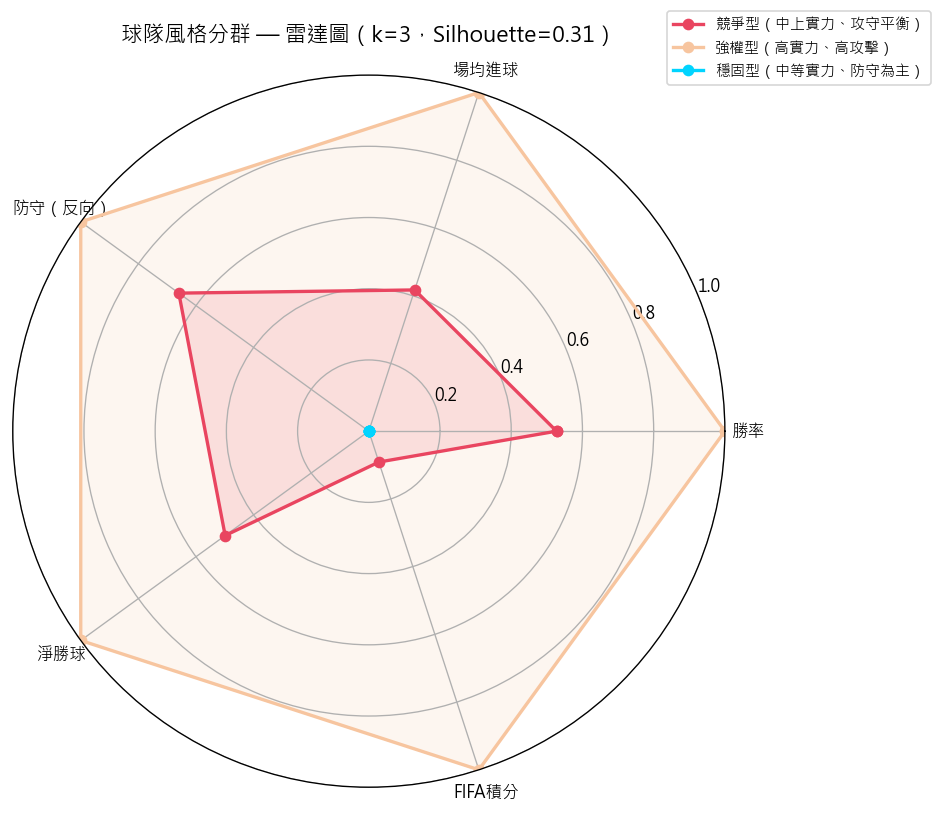
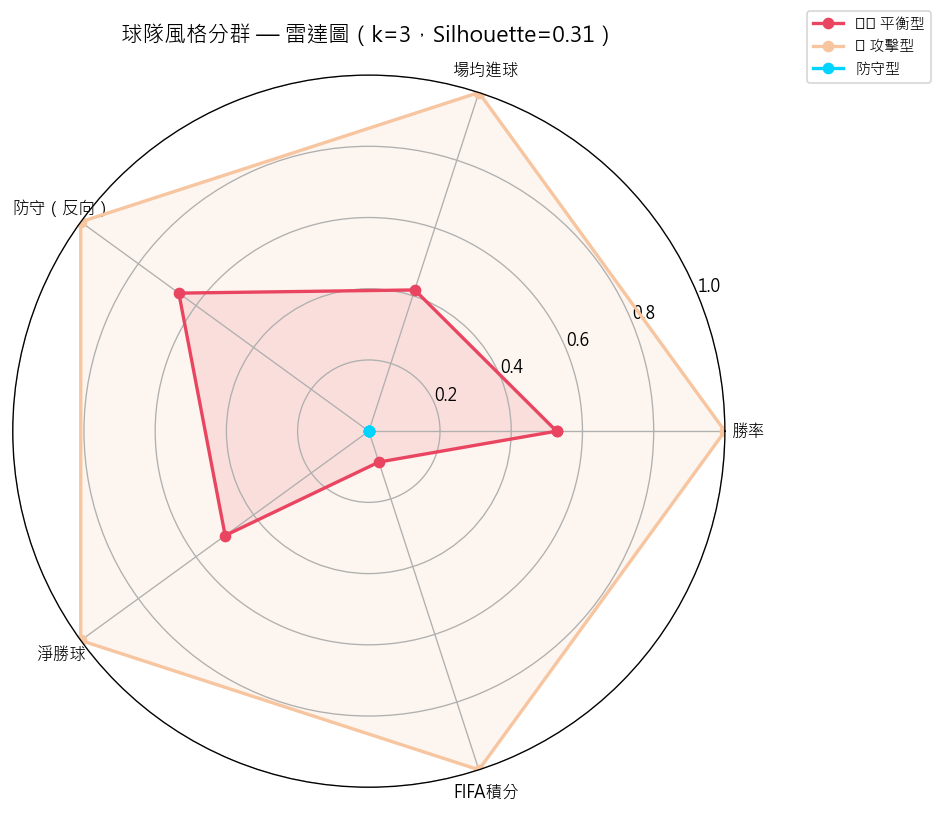
feat: 球隊風格分群改為攻擊型/防守型/平衡型，依淨進球自動分類並說明區分標準

Changed region(s): [[0.7073, 0.0, 0.9841, 0.123]]

diff --git a/app.py b/app.py
@@ -1728,24 +1728,24 @@ elif page == "🎯 球隊風格分群":
         plot_df['flag'] = plot_df['team'].apply(lambda t: TEAM_INFO.get(t, {'flag': '🏳'})['flag'])
         plot_df['hover_name'] = plot_df['team_cn']   # 純文字，避免 emoji 亂碼
 
-        # Plotly 圖例用 ASCII Tier 標籤（避免 CJK+emoji 亂碼）
-        tier_labels = {i: f'Tier {i+1}' for i in range(k)}
-        plot_df['tier'] = plot_df['cluster'].map(tier_labels)
+        # Plotly 圖例用 ASCII 標籤（避免 CJK+emoji 亂碼）
+        en_labels = {i: clusters.get('cluster_names_en', {}).get(i, f'Group {i+1}') for i in range(k)}
+        plot_df['style_en'] = plot_df['cluster'].map(en_labels)
 
         fig_pca = px.scatter(
             plot_df, x='pca1', y='pca2',
-            color='tier',
+            color='style_en',
             hover_name='hover_name',
-            hover_data={'tier': True, 'cluster_label': True, 'pca1': False, 'pca2': False},
+            hover_data={'style_en': True, 'cluster_label': True, 'pca1': False, 'pca2': False},
             text='team_cn',
-            title=f'Team Style Clustering — PCA 2D  (k={k}, Silhouette={sil:.2f})',
+            title=f'球隊風格分群 — PCA 二維投影  (k={k}, Silhouette={sil:.2f})',
             color_discrete_sequence=['#e94560', '#f5a623', '#3366cc', '#0f6e6e'],
             height=540,
         )
         fig_pca.update_traces(textposition='top center', marker=dict(size=11),
                               textfont=dict(size=9))
         fig_pca.update_layout(
-            legend_title_text='Tier',
+            legend_title_text='風格',
             paper_bgcolor='rgba(0,0,0,0)', plot_bgcolor='rgba(0,0,0,0)',
             font=dict(color='#ccc'),
             xaxis=dict(gridcolor='rgba(255,255,255,0.08)'),
@@ -1753,16 +1753,36 @@ elif page == "🎯 球隊風格分群":
         )
         st.plotly_chart(fig_pca, use_container_width=True)
 
-        # 圖例說明（Tier ↔ 中文名稱對照）
-        tier_legend_cols = st.columns(k)
-        tier_colors = ['#e94560', '#f5a623', '#3366cc', '#0f6e6e']
+        # ── 分群說明：類型定義 + 各群中心數據 ──
+        style_colors = {'攻擊型': '#e94560', '防守型': '#3366cc', '平衡型': '#f5a623'}
+        style_icons  = {'攻擊型': '⚡', '防守型': '🛡', '平衡型': '⚖'}
+        style_criteria = {
+            '攻擊型': '場均進球最高 → 主動進攻、以攻代守',
+            '防守型': '場均失球最低 → 穩守反擊、嚴密組織',
+            '平衡型': '攻守均衡 → 彈性戰術、視對手調整',
+        }
+        legend_cols = st.columns(k)
+        tier_colors_list = ['#e94560', '#f5a623', '#3366cc', '#0f6e6e']
         for i in range(k):
-            cname = cluster_names.get(i, f'Tier {i+1}')
-            with tier_legend_cols[i]:
+            cname_full = cluster_names.get(i, f'Group {i+1}')
+            # 取出純中文名（去 emoji）
+            cn_pure = cname_full.replace('⚡','').replace('🛡','').replace('⚖','').strip()
+            color = style_colors.get(cn_pure, tier_colors_list[i % len(tier_colors_list)])
+            icon  = style_icons.get(cn_pure, '')
+            criteria = style_criteria.get(cn_pure, '')
+            # 各群中心攻守數據
+            c_row = centers.iloc[i] if hasattr(centers, 'iloc') else {}
+            goals_c    = c_row.get('avg_goals', 0) if isinstance(c_row, dict) else float(c_row['avg_goals'])
+            conceded_c = c_row.get('avg_conceded', 0) if isinstance(c_row, dict) else float(c_row['avg_conceded'])
+            with legend_cols[i]:
                 st.markdown(
-                    f'<div style="border-left:4px solid {tier_colors[i % len(tier_colors)]};'
-                    f'padding:4px 10px;font-size:0.85rem;">'
-                    f'<b>Tier {i+1}</b><br>{cname}</div>',
+                    f'<div style="border-left:4px solid {color};padding:8px 12px;'
+                    f'border-radius:4px;background:rgba(255,255,255,0.04);margin-bottom:6px;">'
+                    f'<b style="font-size:1rem;">{icon} {cn_pure}</b><br>'
+                    f'<span style="color:#aaa;font-size:0.8rem;">{criteria}</span><br>'
+                    f'<span style="font-size:0.8rem;">場均進球 <b style="color:#00d4ff">{goals_c:.2f}</b> ／ '
+                    f'場均失球 <b style="color:#f7c948">{conceded_c:.2f}</b></span>'
+                    f'</div>',
                     unsafe_allow_html=True
                 )
 
@@ -1780,7 +1800,9 @@ elif page == "🎯 球隊風格分群":
 
         st.markdown("---")
         st.markdown("### 📋 各群球隊列表")
-        for cid, cname in cluster_names.items():
+        for cid, cname in sorted(cluster_names.items()):
+            cn_pure = cname.replace('⚡','').replace('🛡','').replace('⚖','').strip()
+            color = style_colors.get(cn_pure, '#aaa')
             teams_in_c = plot_df[plot_df['cluster'] == cid]['team'].tolist()
             team_labels = []
             for t in sorted(teams_in_c):

diff --git a/pretrain.py b/pretrain.py
@@ -557,48 +557,43 @@ def run_clustering(match_df):
     scaler = StandardScaler()
     Xs = scaler.fit_transform(X)
 
-    # 嘗試多個 k 看 silhouette
+    # 固定 k=3（攻擊型 / 防守型 / 平衡型），並記錄 silhouette 供展示
     from sklearn.metrics import silhouette_score
+    best_k = 3
     sil = {}
     for k in [3, 4, 5]:
-        km = KMeans(n_clusters=k, random_state=42, n_init=10)
-        labels = km.fit_predict(Xs)
-        sil[k] = silhouette_score(Xs, labels)
+        km_tmp = KMeans(n_clusters=k, random_state=42, n_init=10)
+        sil[k] = silhouette_score(Xs, km_tmp.fit_predict(Xs))
         print(f"  k={k} silhouette = {sil[k]:.3f}")
-    best_k = max(sil, key=sil.get)
-    print(f"  最佳 k = {best_k}")
+    print(f"  固定使用 k={best_k}（攻擊型/防守型/平衡型）")
 
     km = KMeans(n_clusters=best_k, random_state=42, n_init=10)
     labels = km.fit_predict(Xs)
     df['cluster'] = labels
 
-    # 為各群定名稱（看哪一群的進攻/防守/實力最高）
+    # 為各群定名稱：依攻守特徵（avg_goals / avg_conceded）判斷風格
     centers_unscaled = scaler.inverse_transform(km.cluster_centers_)
     centers_df = pd.DataFrame(centers_unscaled, columns=feat_cols)
 
-    # 根據 fifa_pts 排序，給 cluster 標籤
-    cluster_rank = centers_df['fifa_pts'].rank(ascending=False).astype(int) - 1
-    # cluster_names：中文版（供 Streamlit HTML 渲染）
-    # cluster_names_en：純 ASCII（供 matplotlib 圖例，避免 CJK 亂碼）
-    cluster_names = {}
+    # 判斷邏輯（k=3，各群恰好一個）：
+    #   攻擊型 — 淨進球（avg_goals - avg_conceded）最高 → 進攻主導
+    #   防守型 — 淨進球最低 → 穩守反擊
+    #   平衡型 — 中間 → 攻守均衡
+    centers_df['net_goal'] = centers_df['avg_goals'] - centers_df['avg_conceded']
+    net_rank = centers_df['net_goal'].rank(ascending=False).astype(int)  # 1=最高淨進球
+    cluster_names    = {}
     cluster_names_en = {}
     for c in range(best_k):
-        rank = cluster_rank[c]
-        if rank == 0:
-            cluster_names[c]    = '🔥 強權型（高實力、高攻擊）'
-            cluster_names_en[c] = 'Tier 1 - Elite (High Power)'
-        elif rank == 1:
-            cluster_names[c]    = '⚔ 競爭型（中上實力、攻守平衡）'
-            cluster_names_en[c] = 'Tier 2 - Competitive (Balanced)'
-        elif rank == 2:
-            cluster_names[c]    = '🛡 穩固型（中等實力、防守為主）'
-            cluster_names_en[c] = 'Tier 3 - Defensive (Mid Tier)'
-        elif rank == 3:
-            cluster_names[c]    = '🌱 黑馬型（中下實力、潛力新銳）'
-            cluster_names_en[c] = 'Tier 4 - Underdog (Emerging)'
+        r = net_rank[c]
+        if r == 1:
+            cluster_names[c]    = '⚡ 攻擊型'
+            cluster_names_en[c] = 'Attacking'
+        elif r == best_k:
+            cluster_names[c]    = '🛡 防守型'
+            cluster_names_en[c] = 'Defensive'
         else:
-            cluster_names[c]    = f'第 {rank+1} 群'
-            cluster_names_en[c] = f'Tier {rank+1}'
+            cluster_names[c]    = '⚖ 平衡型'
+            cluster_names_en[c] = 'Balanced'
 
     # PCA 2D 視覺化
     pca = PCA(n_components=2)
@@ -617,6 +612,7 @@ def run_clustering(match_df):
         'kmeans': km,
         'scaler': scaler,
         'pca': pca,
+        'cluster_names_en': cluster_names_en,
     }
     with open(os.path.join(MODEL_DIR, 'team_clusters.pkl'), 'wb') as f:
         pickle.dump(out, f)
